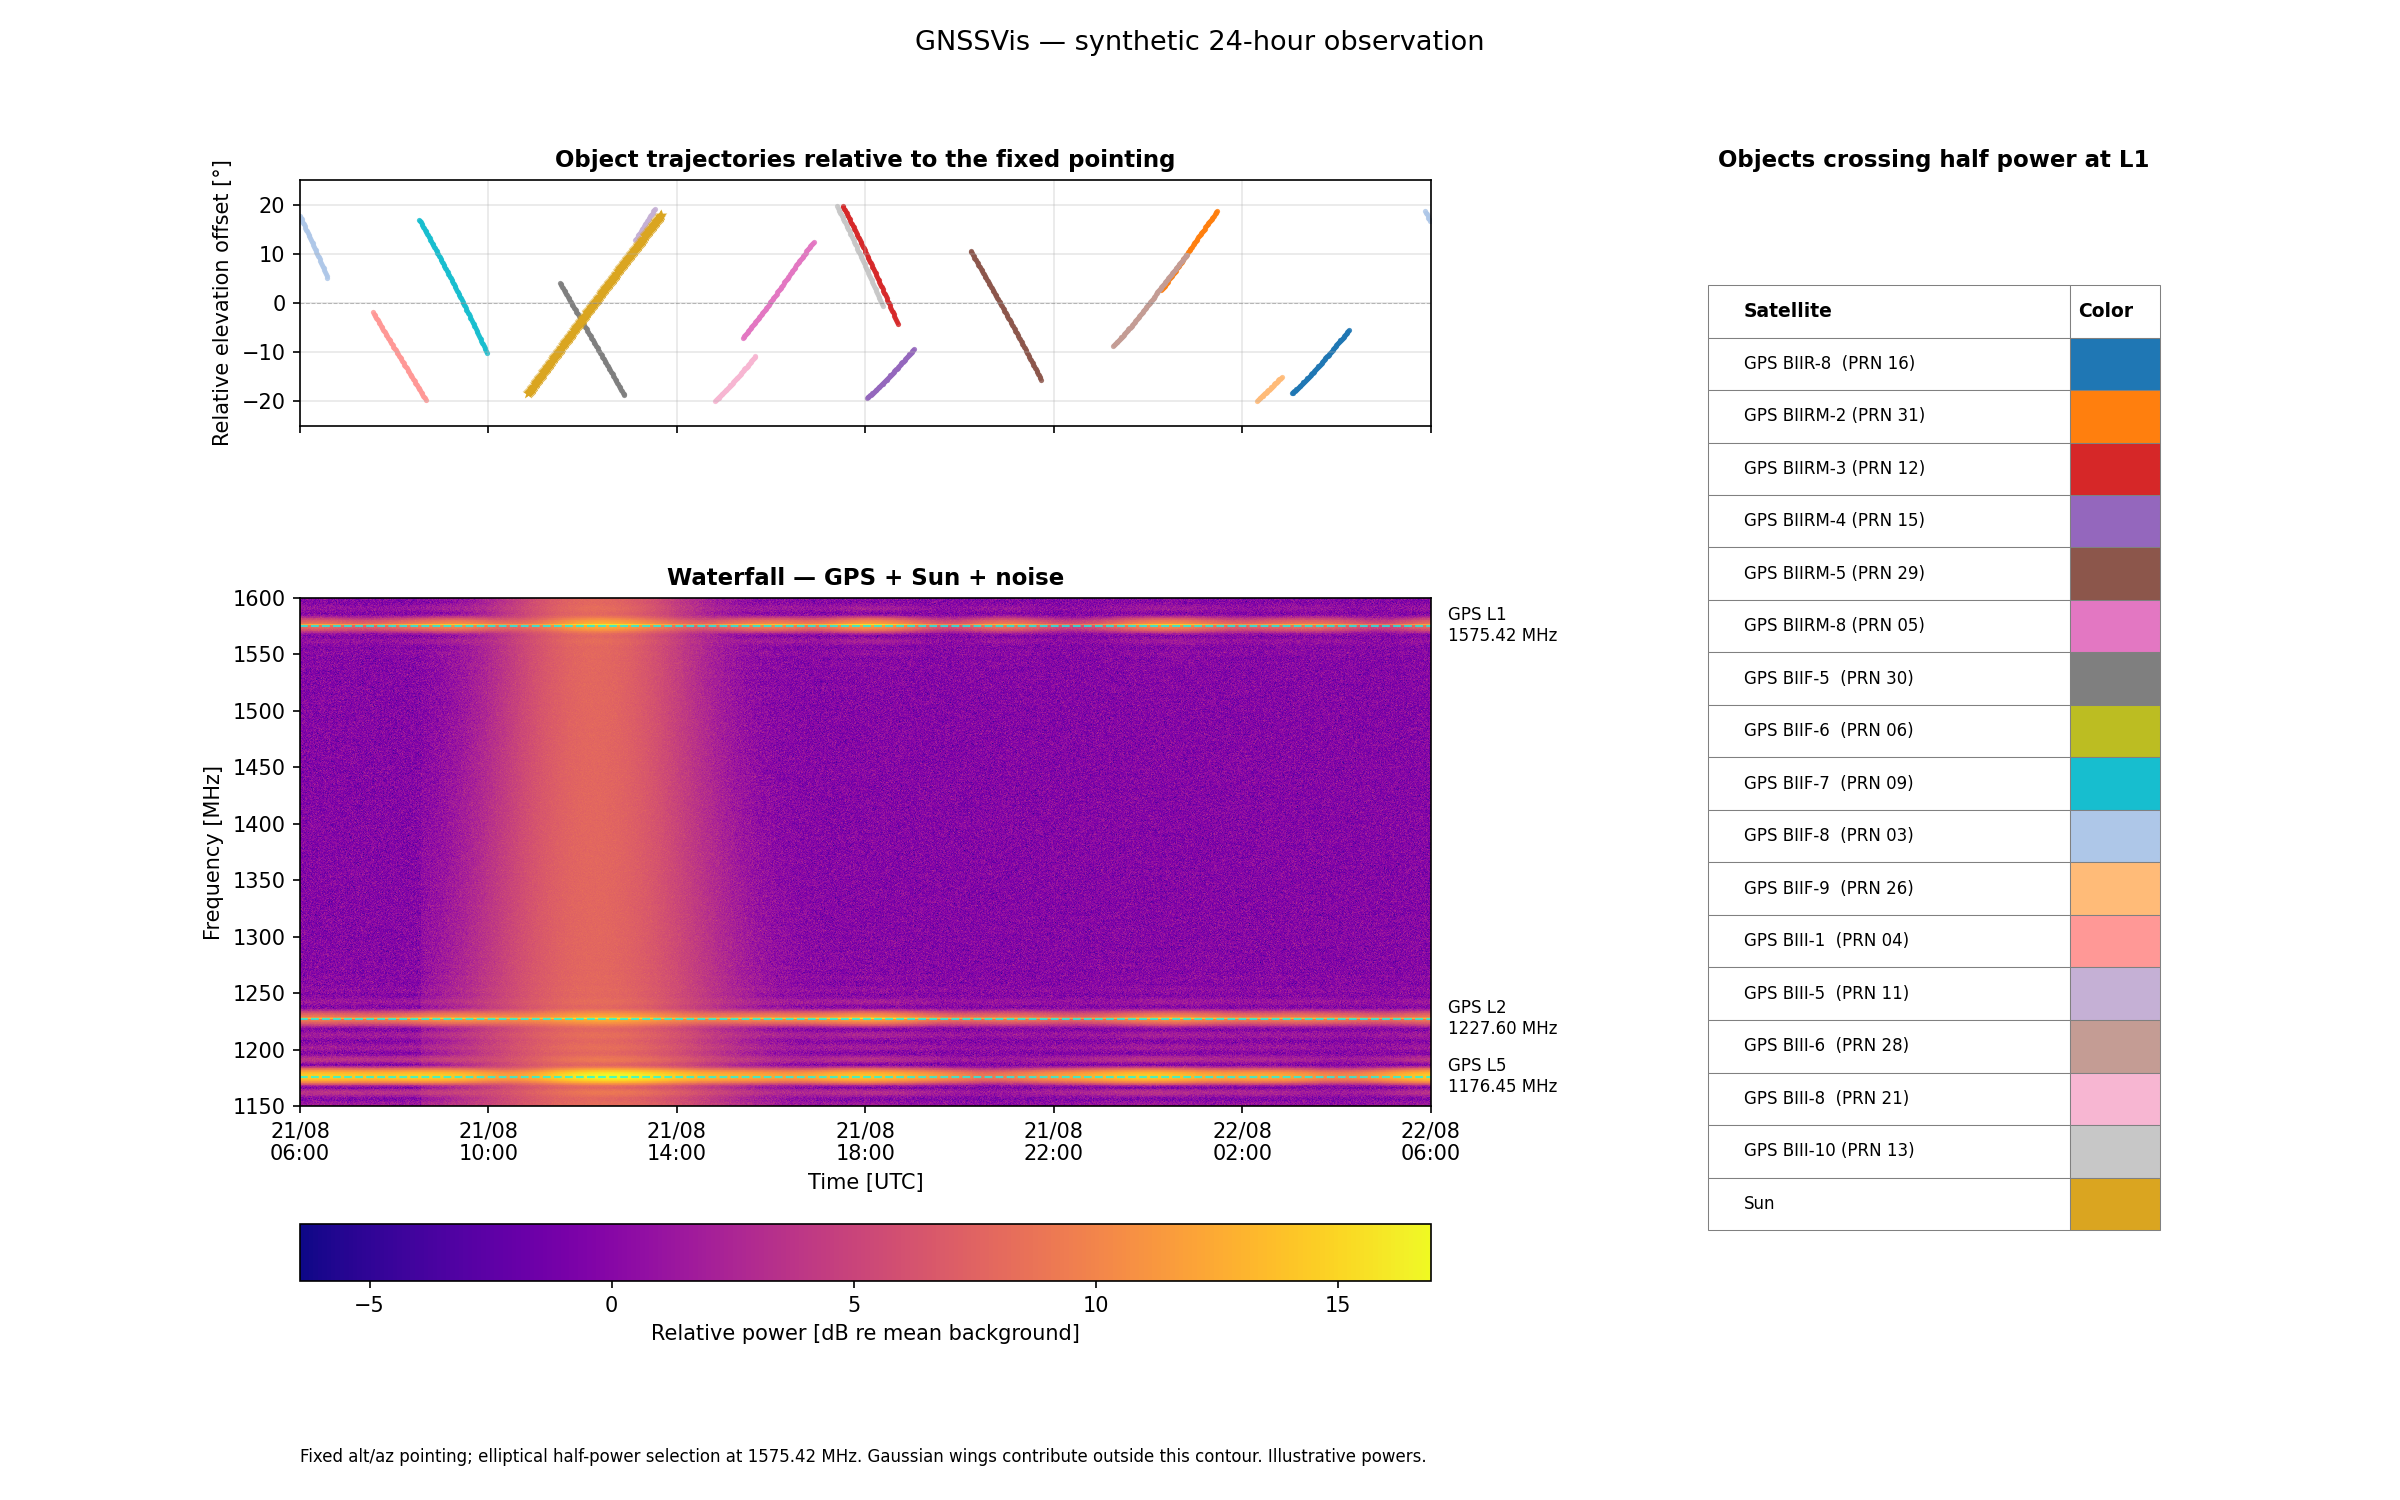
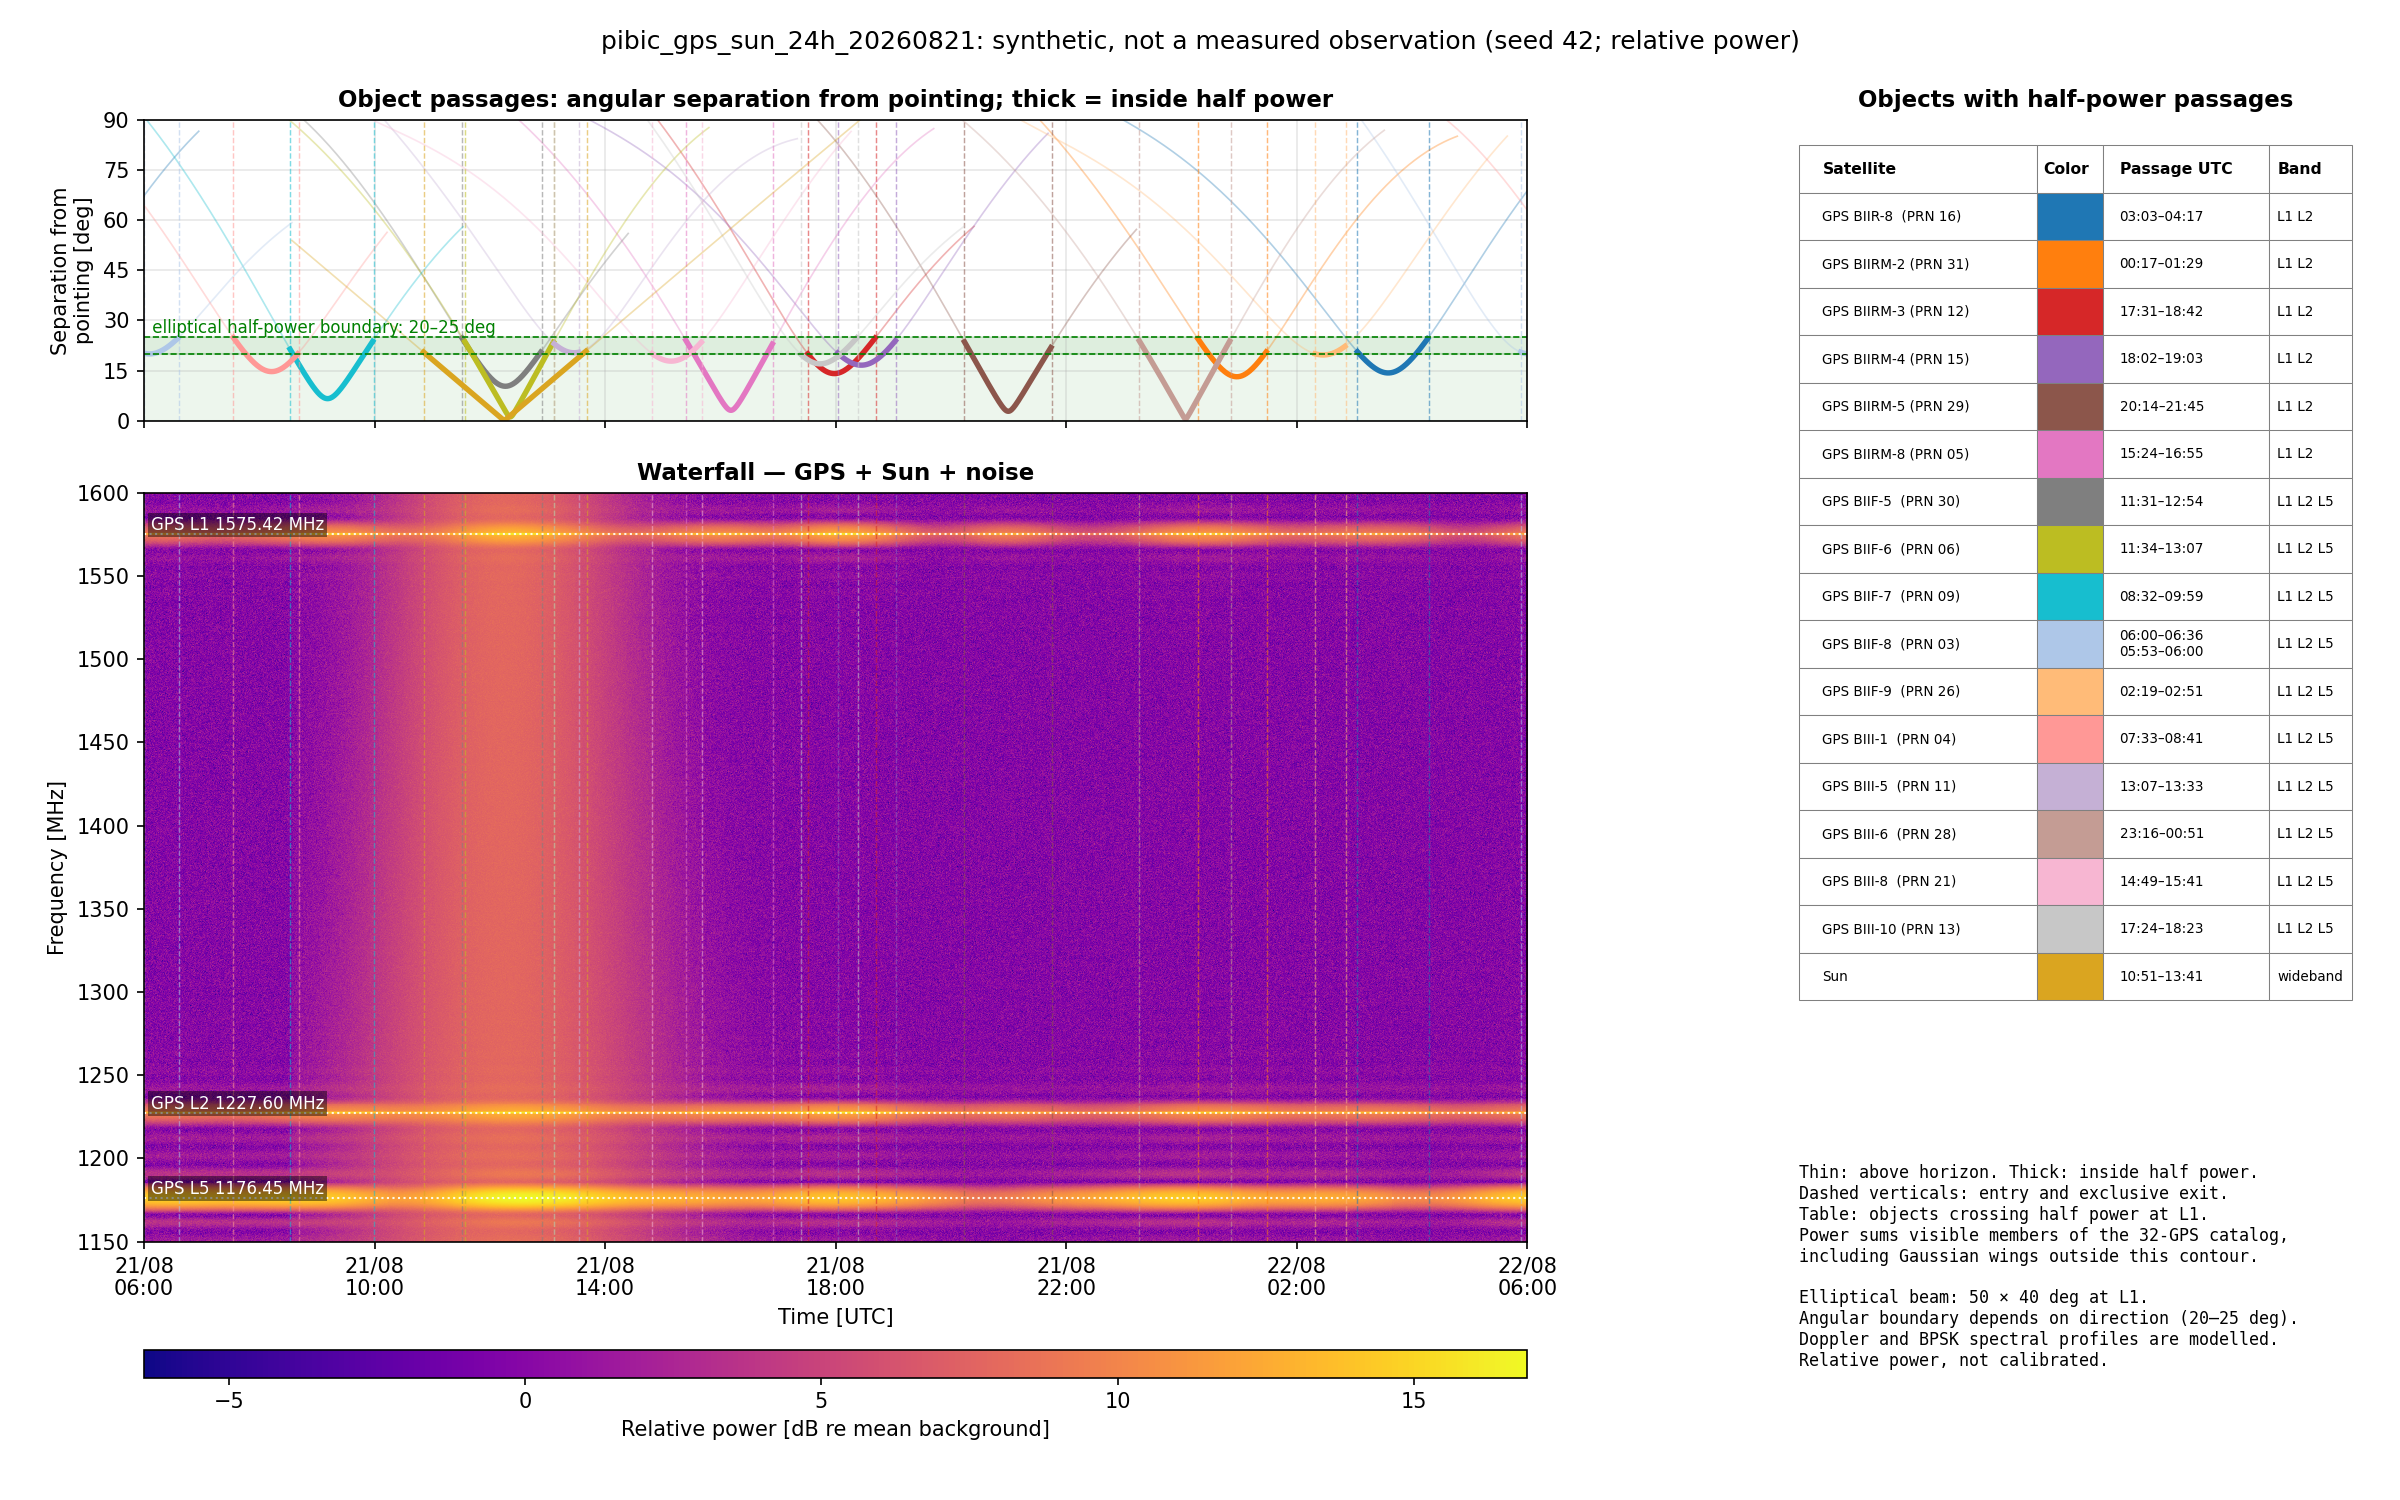
Match GNSSVis 2.0 simulation layout with separation, passage markers and detailed table

diff --git a/src/gnssvis_simulation/realistic_figures.py b/src/gnssvis_simulation/realistic_figures.py
@@ -30,24 +30,42 @@ def plot_realistic_figures(r, output: Path):
         with plt.rc_context(matplotlib.rcParamsDefault):
             fig = plt.figure(figsize=(16,10))
             gs = fig.add_gridspec(2,2,width_ratios=[3,1.2],height_ratios=[1,3],
-                                 hspace=.35,wspace=.35)
+                                 hspace=.12,wspace=.28,left=.06,right=.98,top=.92,bottom=.07)
             top=fig.add_subplot(gs[0,0]); wf=fig.add_subplot(gs[1,0],sharex=top)
             table=fig.add_subplot(gs[:,1]); table.axis('off')
-            legend=[]
+            from .geometry import find_passages
+            from datetime import timedelta
+            legend=[]; intervals=[]; bands=[]
+            def trajectory(label, color, values, mask, visible, band):
+                top.plot(t,np.where(visible,values,np.nan),color=color,lw=.8,alpha=.35)
+                top.plot(t,np.where(mask,values,np.nan),color=color,lw=2.6)
+                runs=find_passages(mask,sc.step_seconds)
+                times=[]
+                for run in runs:
+                    entry=sc.start_utc+timedelta(seconds=run.entry_offset_seconds)
+                    leave=sc.start_utc+timedelta(seconds=run.exit_offset_seconds)
+                    times.append(f'{entry:%H:%M}–{leave:%H:%M}')
+                    for ax in (top,wf):
+                        ax.axvline(mdates.date2num(entry),color=color,ls='--',lw=.7,alpha=.55)
+                        ax.axvline(mdates.date2num(leave),color=color,ls='--',lw=.7,alpha=.55)
+                legend.append((label,color));intervals.append('\n'.join(times) or 'none');bands.append(band)
             for row in (rows if gps else []):
-                mask=r.half_power_mask[row]
-                values=r.doppler_hz[row]/1000 if doppler else y[row]
-                top.scatter(t[mask],values[mask],s=6.25,color=colors[row],alpha=.85,linewidths=0)
-                legend.append((g.satellites[row].name,colors[row]))
+                sat=g.satellites[row]
+                trajectory(sat.name,colors[row],r.doppler_hz[row]/1000 if doppler else g.separation_deg[row],
+                           r.half_power_mask[row],g.above_horizon[row],
+                           'L1' if crop else ('L1 L2 L5' if sat.block in ('IIF','III') else 'L1 L2'))
             if solar and not doppler:
-                top.scatter(t[sun_mask],r.solar['offset_y_deg'][sun_mask],s=35,
-                            marker='*',color='goldenrod',linewidths=0)
-                legend.append(('Sun','goldenrod'))
-            top.axhline(0,color='gray',ls='--',lw=.5,alpha=.5)
-            top.set_ylabel('Doppler L1 [kHz]' if doppler else 'Relative elevation offset [°]')
-            top.set_title('Satellite Doppler inside the half-power beam' if doppler else
-                          'Object trajectories relative to the fixed pointing',fontsize=11,fontweight='bold')
-            if not doppler: top.set_ylim(-25,25)
+                trajectory('Sun','goldenrod',r.solar['separation_deg'],sun_mask,r.solar['alt_deg']>0,'wideband')
+            top.set_ylabel('Doppler L1 [kHz]' if doppler else 'Separation from\npointing [deg]')
+            top.set_title('Satellite Doppler; thick = inside half power' if doppler else
+                          'Object passages: angular separation from pointing; thick = inside half power',fontsize=11,fontweight='bold')
+            if not doppler:
+                minor=beam['minor_width_deg']/2;major=beam['full_width_deg']/2
+                top.axhspan(0,minor,color='green',alpha=.07)
+                top.axhspan(minor,major,color='green',alpha=.13)
+                for boundary in (minor,major):top.axhline(boundary,color='green',ls='--',lw=.8)
+                top.text(.002,major,' elliptical half-power boundary: 20–25 deg',transform=top.get_yaxis_transform(),fontsize=8,color='green',va='bottom')
+                top.set_ylim(0,90);top.set_yticks([0,15,30,45,60,75,90])
             top.grid(True,alpha=.3)
             top.tick_params(labelbottom=False)
             keep=np.ones(len(f),dtype=bool) if crop is None else ((f>=crop[0])&(f<=crop[1]))
@@ -58,20 +76,28 @@ def plot_realistic_figures(r, output: Path):
                          vmin=limits[0],vmax=limits[1])
             for hz,label in ([(1176.45,'GPS L5'),(1227.60,'GPS L2'),(1575.42,'GPS L1')] if gps else []):
                 if f[keep][0]-half<=hz<=f[keep][-1]+half:
-                    wf.axhline(hz,color='cyan',ls='--',alpha=.7,lw=1)
-                    wf.text(1.015,hz,f'{label}\n{hz:.2f} MHz',transform=wf.get_yaxis_transform(),
-                            fontsize=8,va='center')
+                    wf.axhline(hz,color='white',ls=':',alpha=.9,lw=1)
+                    wf.text(.005,hz,f'{label} {hz:.2f} MHz',transform=wf.get_yaxis_transform(),
+                            fontsize=8,va='bottom',color='white',bbox=dict(facecolor='black',alpha=.45,edgecolor='none',pad=1.5))
             wf.set_xlim(t[0],end)
             wf.xaxis.set_major_locator(mdates.HourLocator(interval=4))
             wf.xaxis.set_major_formatter(mdates.DateFormatter('%d/%m\n%H:%M'))
             wf.set_xlabel('Time [UTC]');wf.set_ylabel('Frequency [MHz]')
             wf.set_title(title,fontsize=11,fontweight='bold')
-            fig.colorbar(im,ax=wf,orientation='horizontal',label='Relative power [dB re mean background]',pad=.16)
-            Visualizer.draw_object_table(table,legend,fontsize=9,row_scale=2.1,name_width=24)
-            table.set_title('Objects crossing half power at L1',fontsize=11,fontweight='bold')
-            fig.suptitle('GNSSVis — synthetic 24-hour observation',fontsize=13)
-            fig.text(.125,.025,'Fixed alt/az pointing; elliptical half-power selection at 1575.42 MHz. '
-                     'Gaussian wings contribute outside this contour. Illustrative powers.',fontsize=8)
+            fig.colorbar(im,ax=wf,orientation='horizontal',label='Relative power [dB re mean background]',pad=.12,fraction=.05,aspect=50)
+            Visualizer.draw_object_table(table,legend,extra_columns=[('Passage UTC',intervals),('Band',bands)],
+                                         col_widths=[.43,.12,.30,.15],fontsize=7.5,row_scale=1.9,name_width=24,loc='upper center')
+            table.set_title('Objects with half-power passages',fontsize=11,fontweight='bold')
+            table.text(0,.02,'Thin: above horizon. Thick: inside half power.\n'
+                       'Dashed verticals: entry and exclusive exit.\n'
+                       'Table: objects crossing half power at L1.\n'
+                       'Power sums visible members of the 32-GPS catalog,\n'
+                       'including Gaussian wings outside this contour.\n\n'
+                       'Elliptical beam: 50 × 40 deg at L1.\n'
+                       'Angular boundary depends on direction (20–25 deg).\n'
+                       'Doppler and BPSK spectral profiles are modelled.\n'
+                       'Relative power, not calibrated.',transform=table.transAxes,fontsize=8,family='monospace',va='bottom')
+            fig.suptitle(f'{sc.config["scenario_id"]}: synthetic, not a measured observation (seed 42; relative power)',fontsize=12)
             fig.savefig(output/name,dpi=150)
             plt.close(fig)
 

diff --git a/docs/REALISTIC_SIMULATION.md b/docs/REALISTIC_SIMULATION.md
@@ -145,7 +145,7 @@ synthetic noise, not a time-integrated voltage/FFT receiver calculation.
 - Five PNGs: overview, components, L1/Doppler detail, spectral/beam models and
   a Sun-only view.
 
-Plots use the GNSSVis white background, plasma colormap, upper trajectory panel and existing object-table helper. All waterfalls share the full finite range of the combined observation (approximately -6.44 to +16.93 relative dB). No values are clipped. The upper panel uses elevation offsets for the fixed alt/az pointing, or radial Doppler in the L1 detail. Separate satellite-only and Sun-only views show their corresponding objects.
+Plots use the GNSSVis white background, plasma colormap, upper trajectory panel and existing object-table helper. All waterfalls share the full finite range of the combined observation (approximately -6.44 to +16.93 relative dB). No values are clipped. The upper panel uses angular separation from the fixed alt/az pointing, with thin visible trajectories and thick half-power segments, or radial Doppler in the L1 detail. Entry/exit lines and the passage/band table follow the simulation 2.0 layout. Separate satellite-only and Sun-only views show their corresponding objects.
 
 Tests cover Doppler sign, radial velocity against a finite range derivative,
 beam FWHM and chromatic scaling, angular wrapping, channel rebinning,

diff --git a/docs/pibic-24h/README.md b/docs/pibic-24h/README.md
@@ -34,4 +34,4 @@ de consistência da simulação aprovados.
 O ZIP de dados omite apenas a matriz total redundante. `reconstruir_waterfall.py`
 recria o NPZ original por soma em float32, sem perda numérica.
 
-Gráficos no padrão GNSSVis: fundo branco, plasma, trajetórias acima e tabela de objetos à direita. O deslocamento vertical é de elevação para este apontamento alt/az fixo.
+Gráficos no padrão GNSSVis: fundo branco, plasma, trajetórias acima e tabela de objetos à direita. O painel superior mostra separação angular, trajetórias finas e trechos destacados; linhas verticais e tabela indicam entrada, saída e bandas.
